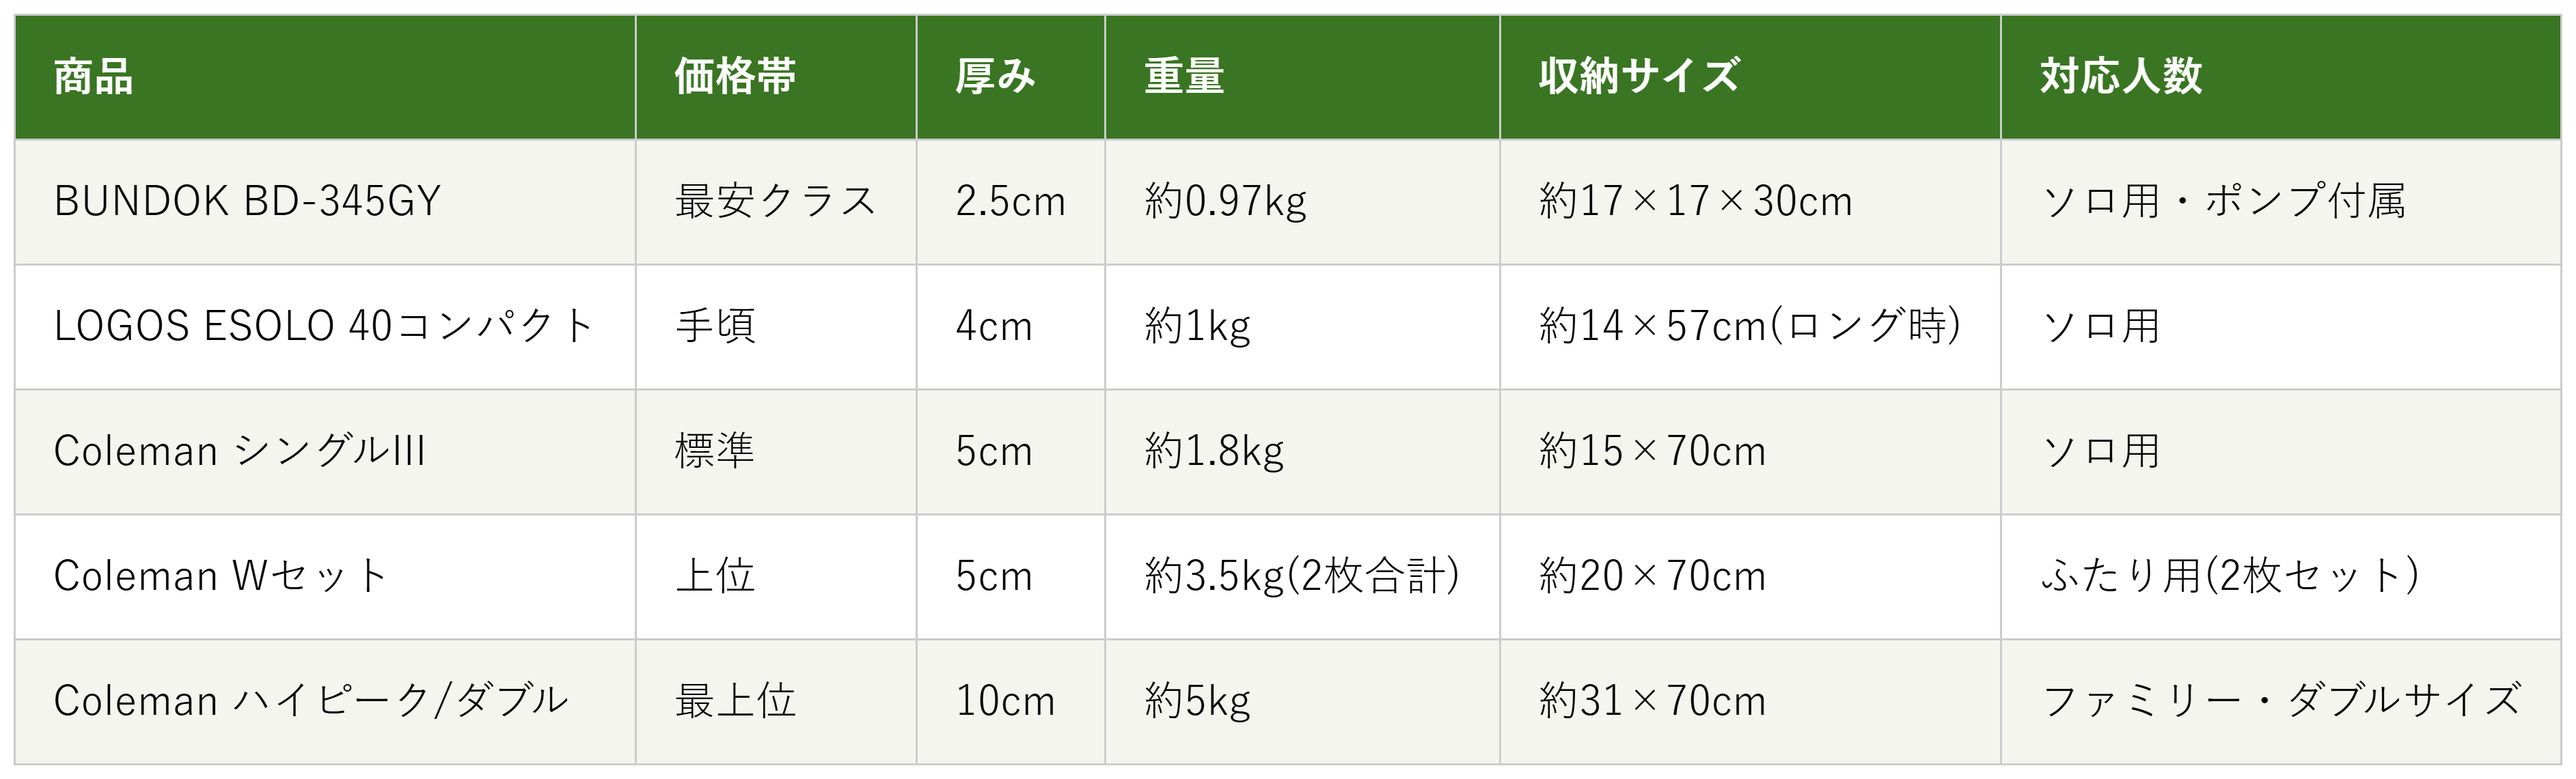
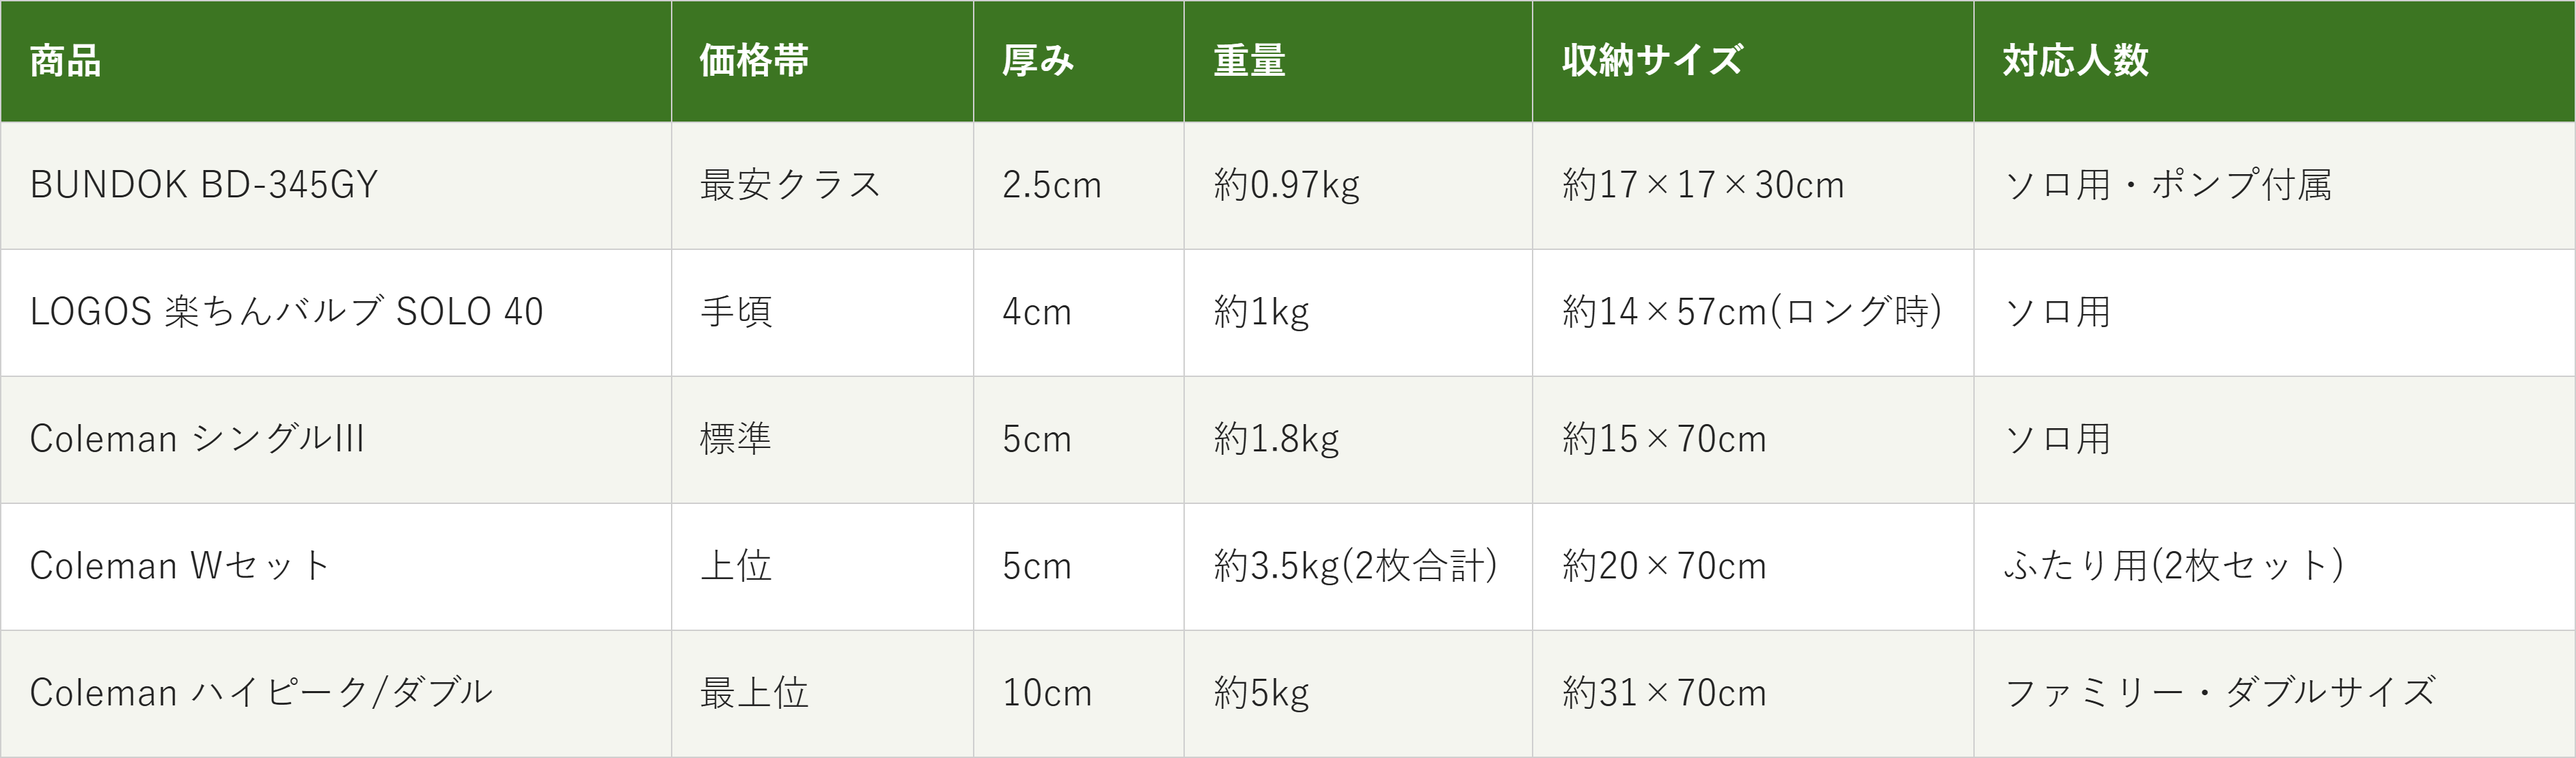
インフレーダブルマット記事: ロゴスの商品名を実物（楽ちんバルブ・高密弾力セルフインフレートマット SOLO 40mm厚）に訂正・比較表画像を差し替え

diff --git a/articles/research-inflatemat.html b/articles/research-inflatemat.html
@@ -328,12 +328,12 @@ a{color:var(--article-link)}
   <span>低評価レビューも確認済み</span>
 </div>
 
-<nav id="purpose-picks" class="purpose-nav" aria-label="目的別の商品目次"><div class="purpose-heading"><h2>目的から選ぶ</h2><span>気になる商品へ、そのまま移動</span></div><div class="purpose-links"><a href="#yasusa"><span class="purpose-number">01</span><strong>安さ重視</strong><span class="purpose-product">BUNDOK BD-345GY</span><span class="purpose-arrow" aria-hidden="true">↗</span></a><a href="#shuunou"><span class="purpose-number">02</span><strong>コンパクト収納</strong><span class="purpose-product">LOGOS ESOLO 40</span><span class="purpose-arrow" aria-hidden="true">↗</span></a><a href="#negokochi"><span class="purpose-number">03</span><strong>寝心地重視</strong><span class="purpose-product">Coleman シングルIII</span><span class="purpose-arrow" aria-hidden="true">↗</span></a><a href="#futari"><span class="purpose-number">04</span><strong>ふたり用重視</strong><span class="purpose-product">Coleman Wセット</span><span class="purpose-arrow" aria-hidden="true">↗</span></a><a href="#family"><span class="purpose-number">05</span><strong>ファミリー本格ダブル</strong><span class="purpose-product">Coleman ハイピーク/ダブル</span><span class="purpose-arrow" aria-hidden="true">↗</span></a></div></nav>
+<nav id="purpose-picks" class="purpose-nav" aria-label="目的別の商品目次"><div class="purpose-heading"><h2>目的から選ぶ</h2><span>気になる商品へ、そのまま移動</span></div><div class="purpose-links"><a href="#yasusa"><span class="purpose-number">01</span><strong>安さ重視</strong><span class="purpose-product">BUNDOK BD-345GY</span><span class="purpose-arrow" aria-hidden="true">↗</span></a><a href="#shuunou"><span class="purpose-number">02</span><strong>コンパクト収納</strong><span class="purpose-product">LOGOS 楽ちんバルブ SOLO 40</span><span class="purpose-arrow" aria-hidden="true">↗</span></a><a href="#negokochi"><span class="purpose-number">03</span><strong>寝心地重視</strong><span class="purpose-product">Coleman シングルIII</span><span class="purpose-arrow" aria-hidden="true">↗</span></a><a href="#futari"><span class="purpose-number">04</span><strong>ふたり用重視</strong><span class="purpose-product">Coleman Wセット</span><span class="purpose-arrow" aria-hidden="true">↗</span></a><a href="#family"><span class="purpose-number">05</span><strong>ファミリー本格ダブル</strong><span class="purpose-product">Coleman ハイピーク/ダブル</span><span class="purpose-arrow" aria-hidden="true">↗</span></a></div></nav>
 <section class="conclusion-box pick-carousel" id="quick-picks" aria-label="目的別のおすすめ5商品" aria-roledescription="カルーセル"><div class="pick-header"><h2>結論から先に言うと：</h2><p>あなたの使い方に合う、1台を。</p></div><div class="pick-track" tabindex="0" aria-label="商品スライド。左右キーでも切り替えできます"><article class="pick-slide" aria-label="1 / 5：BUNDOK BD-345GY"><div class="pick-copy"><span class="pick-number">01 / 05</span><p class="pick-reason">安さ重視なら</p><h3>BUNDOK BD-345GY</h3><a class="pick-detail" href="#yasusa">向き・不向きも詳しく見る ↗</a></div><div class="pick-product"><img src="research-inflatemat/01_bundok.jpg" alt="BUNDOK BD-345GY" loading="lazy"><a class="pick-amazon" href="https://www.amazon.co.jp/dp/B09FSGQZL6?tag=miitobow-22" target="_blank" rel="noopener sponsored" aria-label="BUNDOK BD-345GYをAmazonで見る">Amazonで見る <span aria-hidden="true">↗</span></a></div></article>
-<article class="pick-slide" aria-label="2 / 5：LOGOS ESOLO 40コンパクト"><div class="pick-copy"><span class="pick-number">02 / 05</span><p class="pick-reason">コンパクト収納を重視するなら</p><h3>LOGOS ESOLO 40コンパクト</h3><a class="pick-detail" href="#shuunou">向き・不向きも詳しく見る ↗</a></div><div class="pick-product"><img src="research-inflatemat/02_logos.jpg" alt="LOGOS ESOLO 40コンパクトセルフインフレートマット" loading="lazy"><a class="pick-amazon" href="https://www.amazon.co.jp/dp/B0B2F5P5J1?tag=miitobow-22" target="_blank" rel="noopener sponsored" aria-label="LOGOS ESOLO 40コンパクトをAmazonで見る">Amazonで見る <span aria-hidden="true">↗</span></a></div></article>
+<article class="pick-slide" aria-label="2 / 5：LOGOS 楽ちんバルブ・高密弾力 セルフインフレートマット（SOLO 40mm厚）"><div class="pick-copy"><span class="pick-number">02 / 05</span><p class="pick-reason">コンパクト収納を重視するなら</p><h3>LOGOS 楽ちんバルブ・高密弾力 セルフインフレートマット（SOLO 40mm厚）</h3><a class="pick-detail" href="#shuunou">向き・不向きも詳しく見る ↗</a></div><div class="pick-product"><img src="research-inflatemat/02_logos.jpg" alt="LOGOS 楽ちんバルブ・高密弾力 セルフインフレートマット（SOLO 40mm厚）" loading="lazy"><a class="pick-amazon" href="https://www.amazon.co.jp/dp/B0B2F5P5J1?tag=miitobow-22" target="_blank" rel="noopener sponsored" aria-label="LOGOS 楽ちんバルブ・高密弾力 セルフインフレートマット（SOLO 40mm厚）をAmazonで見る">Amazonで見る <span aria-hidden="true">↗</span></a></div></article>
 <article class="pick-slide" aria-label="3 / 5：Coleman シングルIII"><div class="pick-copy"><span class="pick-number">03 / 05</span><p class="pick-reason">寝心地を重視するなら</p><h3>Coleman シングルIII</h3><a class="pick-detail" href="#negokochi">向き・不向きも詳しく見る ↗</a></div><div class="pick-product"><img src="research-inflatemat/03_coleman1.jpg" alt="Coleman キャンプ用エアインフレーターマット/シングルIII" loading="lazy"><a class="pick-amazon" href="https://www.amazon.co.jp/dp/B0792324NS?tag=miitobow-22" target="_blank" rel="noopener sponsored" aria-label="Coleman シングルIIIをAmazonで見る">Amazonで見る <span aria-hidden="true">↗</span></a></div></article>
 <article class="pick-slide" aria-label="4 / 5：Coleman Wセット"><div class="pick-copy"><span class="pick-number">04 / 05</span><p class="pick-reason">ふたり用を重視するなら</p><h3>Coleman Wセット</h3><a class="pick-detail" href="#futari">向き・不向きも詳しく見る ↗</a></div><div class="pick-product"><img src="research-inflatemat/04_coleman2.jpg" alt="Coleman キャンプ用エアインフレーターマット/Wセット" loading="lazy"><a class="pick-amazon" href="https://www.amazon.co.jp/dp/B07923XJ1W?tag=miitobow-22" target="_blank" rel="noopener sponsored" aria-label="Coleman WセットをAmazonで見る">Amazonで見る <span aria-hidden="true">↗</span></a></div></article>
-<article class="pick-slide" aria-label="5 / 5：Coleman ハイピーク/ダブル"><div class="pick-copy"><span class="pick-number">05 / 05</span><p class="pick-reason">ファミリー本格ダブルなら</p><h3>Coleman ハイピーク/ダブル</h3><a class="pick-detail" href="#family">向き・不向きも詳しく見る ↗</a></div><div class="pick-product"><img src="research-inflatemat/05_coleman3.jpg" alt="Coleman キャンプ用エアインフレーターマット ハイピーク/ダブル" loading="lazy"><a class="pick-amazon" href="https://www.amazon.co.jp/dp/B07YWXNN8Z?tag=miitobow-22" target="_blank" rel="noopener sponsored" aria-label="Coleman ハイピーク/ダブルをAmazonで見る">Amazonで見る <span aria-hidden="true">↗</span></a></div></article></div><div class="pick-controls" hidden><button type="button" class="pick-prev" aria-label="前の商品">←</button><div class="pick-dots"><button type="button" data-pick="0" aria-label="BUNDOK BD-345GYを表示" aria-current="true">01</button><button type="button" data-pick="1" aria-label="LOGOS ESOLO 40コンパクトを表示">02</button><button type="button" data-pick="2" aria-label="Coleman シングルIIIを表示">03</button><button type="button" data-pick="3" aria-label="Coleman Wセットを表示">04</button><button type="button" data-pick="4" aria-label="Coleman ハイピーク/ダブルを表示">05</button></div><button type="button" class="pick-next" aria-label="次の商品">→</button></div><p class="pick-hint">横にスワイプして、5商品を見比べる</p></section>
+<article class="pick-slide" aria-label="5 / 5：Coleman ハイピーク/ダブル"><div class="pick-copy"><span class="pick-number">05 / 05</span><p class="pick-reason">ファミリー本格ダブルなら</p><h3>Coleman ハイピーク/ダブル</h3><a class="pick-detail" href="#family">向き・不向きも詳しく見る ↗</a></div><div class="pick-product"><img src="research-inflatemat/05_coleman3.jpg" alt="Coleman キャンプ用エアインフレーターマット ハイピーク/ダブル" loading="lazy"><a class="pick-amazon" href="https://www.amazon.co.jp/dp/B07YWXNN8Z?tag=miitobow-22" target="_blank" rel="noopener sponsored" aria-label="Coleman ハイピーク/ダブルをAmazonで見る">Amazonで見る <span aria-hidden="true">↗</span></a></div></article></div><div class="pick-controls" hidden><button type="button" class="pick-prev" aria-label="前の商品">←</button><div class="pick-dots"><button type="button" data-pick="0" aria-label="BUNDOK BD-345GYを表示" aria-current="true">01</button><button type="button" data-pick="1" aria-label="LOGOS 楽ちんバルブ・高密弾力 セルフインフレートマット（SOLO 40mm厚）を表示">02</button><button type="button" data-pick="2" aria-label="Coleman シングルIIIを表示">03</button><button type="button" data-pick="3" aria-label="Coleman Wセットを表示">04</button><button type="button" data-pick="4" aria-label="Coleman ハイピーク/ダブルを表示">05</button></div><button type="button" class="pick-next" aria-label="次の商品">→</button></div><p class="pick-hint">横にスワイプして、5商品を見比べる</p></section>
 
 <h2>選び方の基準は3つだけ</h2>
 <p>調べてわかったのは、基準はシンプルでした。</p>
@@ -355,7 +355,7 @@ a{color:var(--article-link)}
     <li>収納：約17×17×30cm</li>
     <li>対応人数：ソロ用・ポンプ付属</li>
   </ul>
-  <h3>LOGOS ESOLO 40コンパクト</h3>
+  <h3>LOGOS 楽ちんバルブ・高密弾力 セルフインフレートマット（SOLO 40mm厚）</h3>
   <ul>
     <li>手頃</li>
     <li>厚み：4cm</li>
@@ -405,7 +405,7 @@ a{color:var(--article-link)}
 <p class="spec-text">収納時は約17×17×30cmと、<br>車のすき間に<br>積みやすいサイズです。</p>
 <a class="buy-link" href="https://www.amazon.co.jp/dp/B09FSGQZL6?tag=miitobow-22" target="_blank" rel="noopener">Amazonで見る<span class="arrow">→</span></a>
 
-<section class="product-feature" id="shuunou" aria-labelledby="shuunou-title"><div class="product-stage"><img class="product-img" loading="lazy" src="research-inflatemat/02_logos.jpg" alt="LOGOS ESOLO 40コンパクトセルフインフレートマット"><div class="product-overlay"><div class="product-copy"><span class="product-index">INFLATABLE MAT / 02</span><h2 class="product-situation" id="shuunou-title">収納したらかさばって<br>車に積めないのがいやな人へ</h2><div class="product-name-row"><p class="product-name">LOGOS ESOLO 40コンパクト</p><span class="price-badge">手頃</span></div><div class="trust-line"><p>収納時はロングサイズで約14×57cmと、5商品の中でも特にコンパクトです。重量は約1kg、厚みは4cmです。</p><p>素材はポリエステルとポリウレタンフォームです。</p></div><a class="buy-link" href="https://www.amazon.co.jp/dp/B0B2F5P5J1?tag=miitobow-22" target="_blank" rel="noopener">Amazonで見る<span class="arrow">→</span></a></div></div></div><div class="product-details"><div class="fit-box">
+<section class="product-feature" id="shuunou" aria-labelledby="shuunou-title"><div class="product-stage"><img class="product-img" loading="lazy" src="research-inflatemat/02_logos.jpg" alt="LOGOS 楽ちんバルブ・高密弾力 セルフインフレートマット（SOLO 40mm厚）"><div class="product-overlay"><div class="product-copy"><span class="product-index">INFLATABLE MAT / 02</span><h2 class="product-situation" id="shuunou-title">収納したらかさばって<br>車に積めないのがいやな人へ</h2><div class="product-name-row"><p class="product-name">LOGOS 楽ちんバルブ・高密弾力 セルフインフレートマット（SOLO 40mm厚）</p><span class="price-badge">手頃</span></div><div class="trust-line"><p>収納時はロングサイズで約14×57cmと、5商品の中でも特にコンパクトです。重量は約1kg、厚みは4cmです。</p><p>素材はポリエステルとポリウレタンフォームです。</p></div><a class="buy-link" href="https://www.amazon.co.jp/dp/B0B2F5P5J1?tag=miitobow-22" target="_blank" rel="noopener">Amazonで見る<span class="arrow">→</span></a></div></div></div><div class="product-details"><div class="fit-box">
   <div class="col good"><b>向いてる人</b><ul><li>収納時のかさばりを最優先したい人</li><li>ソロキャンプで荷物を減らしたい人</li></ul></div>
   <div class="col bad"><b>向いてない人</b><ul><li>ふたり以上で使いたい人</li></ul></div>
 </div>
@@ -415,7 +415,7 @@ a{color:var(--article-link)}
   枕とセットで購入した人から、枕は1ヶ月経たずに空気が抜け、マット本体も常用3ヶ月足らずで空気が抜けるようになったという指摘があります。寝心地自体は良いという評価が中心でした。
   <p class="src">参考：<a href="https://my-best.com/products/735401" target="_blank" rel="noopener">マイベストレビュー</a></p>
 </div>
-<p class="spec-text">LOGOSのESOLO 40<br>コンパクトセルフインフレートマットは、<br>収納したらかさばって車に積めないのがいやな人に最も向く1台です。</p>
+<p class="spec-text">LOGOSの楽ちんバルブ・高密弾力<br>セルフインフレートマット（SOLO 40mm厚）は、<br>収納したらかさばって車に積めないのがいやな人に最も向く1台です。</p>
 <p class="spec-text">収納時はロングサイズで<br>約14×57cmと、<br>5商品の中でも特にコンパクトです。</p>
 <p class="spec-text">重量は約1kg、厚みは4cmです。<br>素材はポリエステルと<br>ポリウレタンフォームです。</p>
 <a class="buy-link" href="https://www.amazon.co.jp/dp/B0B2F5P5J1?tag=miitobow-22" target="_blank" rel="noopener">Amazonで見る<span class="arrow">→</span></a>
@@ -516,7 +516,7 @@ a{color:var(--article-link)}
 <ul class="sources">
   <li>価格.com キャンプ用マット・スリーピングパッド満足度ランキング：<a href="https://kakaku.com/outdoor/camp-mat/ranking_6698/" target="_blank" rel="noopener">kakaku.com</a></li>
   <li>価格.com BUNDOK BD-345GY商品ページ：<a href="https://kakaku.com/item/K0001446947/" target="_blank" rel="noopener">kakaku.com</a></li>
-  <li>価格.com LOGOS ESOLO 40コンパクトセルフインフレートマット：<a href="https://kakaku.com/item/K0001447535/" target="_blank" rel="noopener">kakaku.com</a></li>
+  <li>価格.com LOGOS 楽ちんバルブ・高密弾力 セルフインフレートマット（SOLO 40mm厚）：<a href="https://kakaku.com/item/K0001447535/" target="_blank" rel="noopener">kakaku.com</a></li>
   <li>価格.com Coleman キャンプ用エアインフレーターマット/シングルIII：<a href="https://kakaku.com/item/K0001073506/" target="_blank" rel="noopener">kakaku.com</a></li>
   <li>価格.com Coleman キャンプ用エアインフレーターマット/Wセット：<a href="https://kakaku.com/item/K0001078679/" target="_blank" rel="noopener">kakaku.com</a></li>
   <li>価格.com Coleman キャンプ用エアインフレーターマット ハイピーク/ダブル：<a href="https://kakaku.com/item/K0001231603/" target="_blank" rel="noopener">kakaku.com</a></li>
